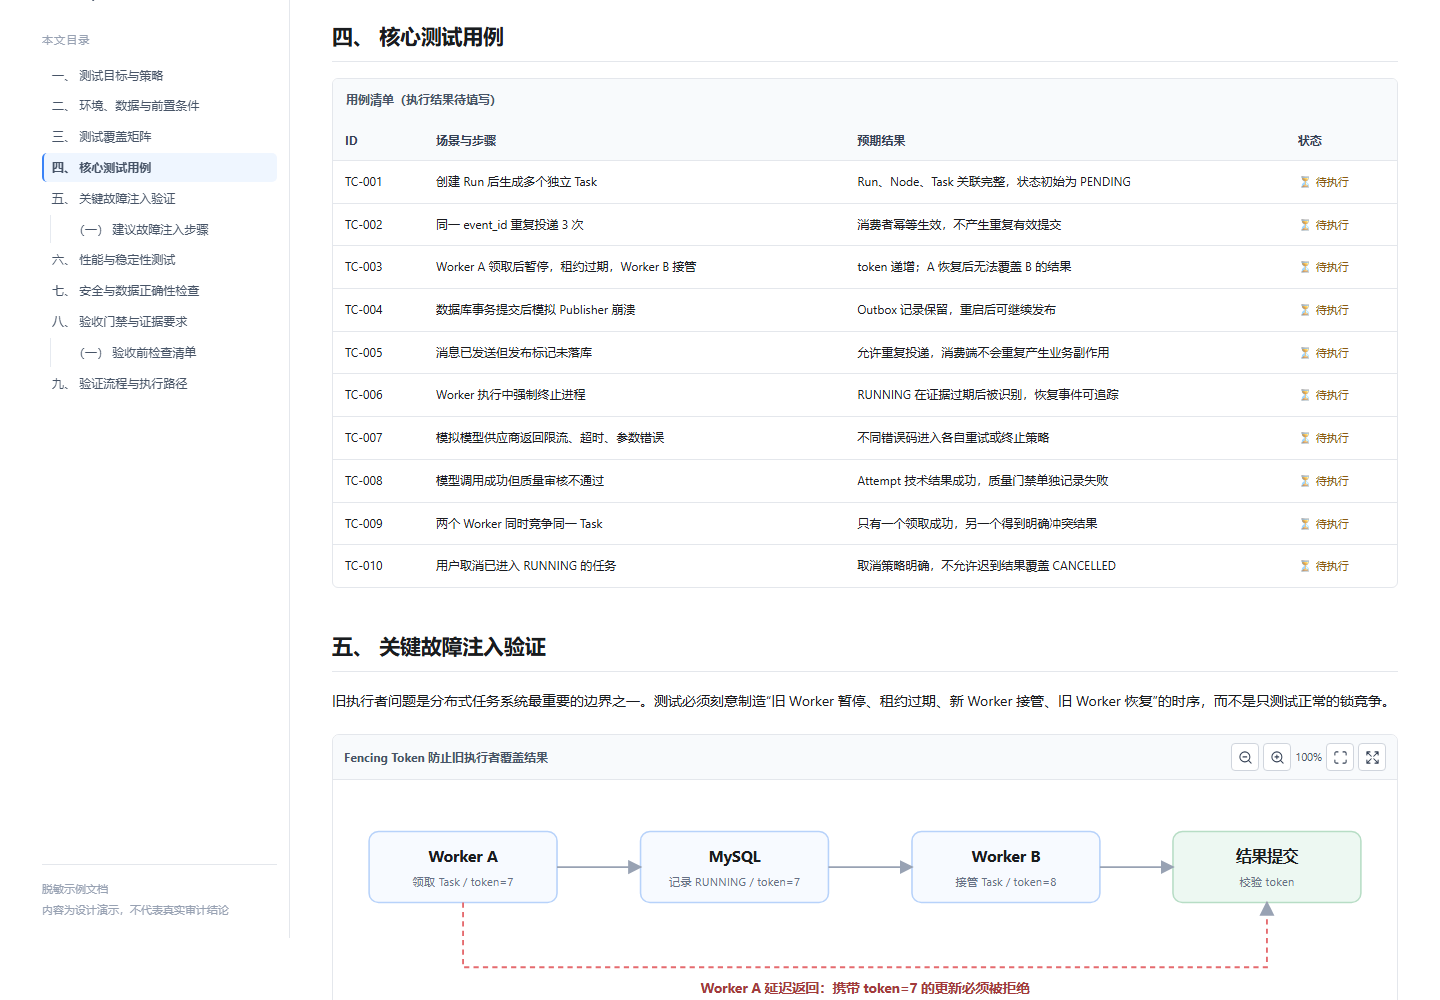
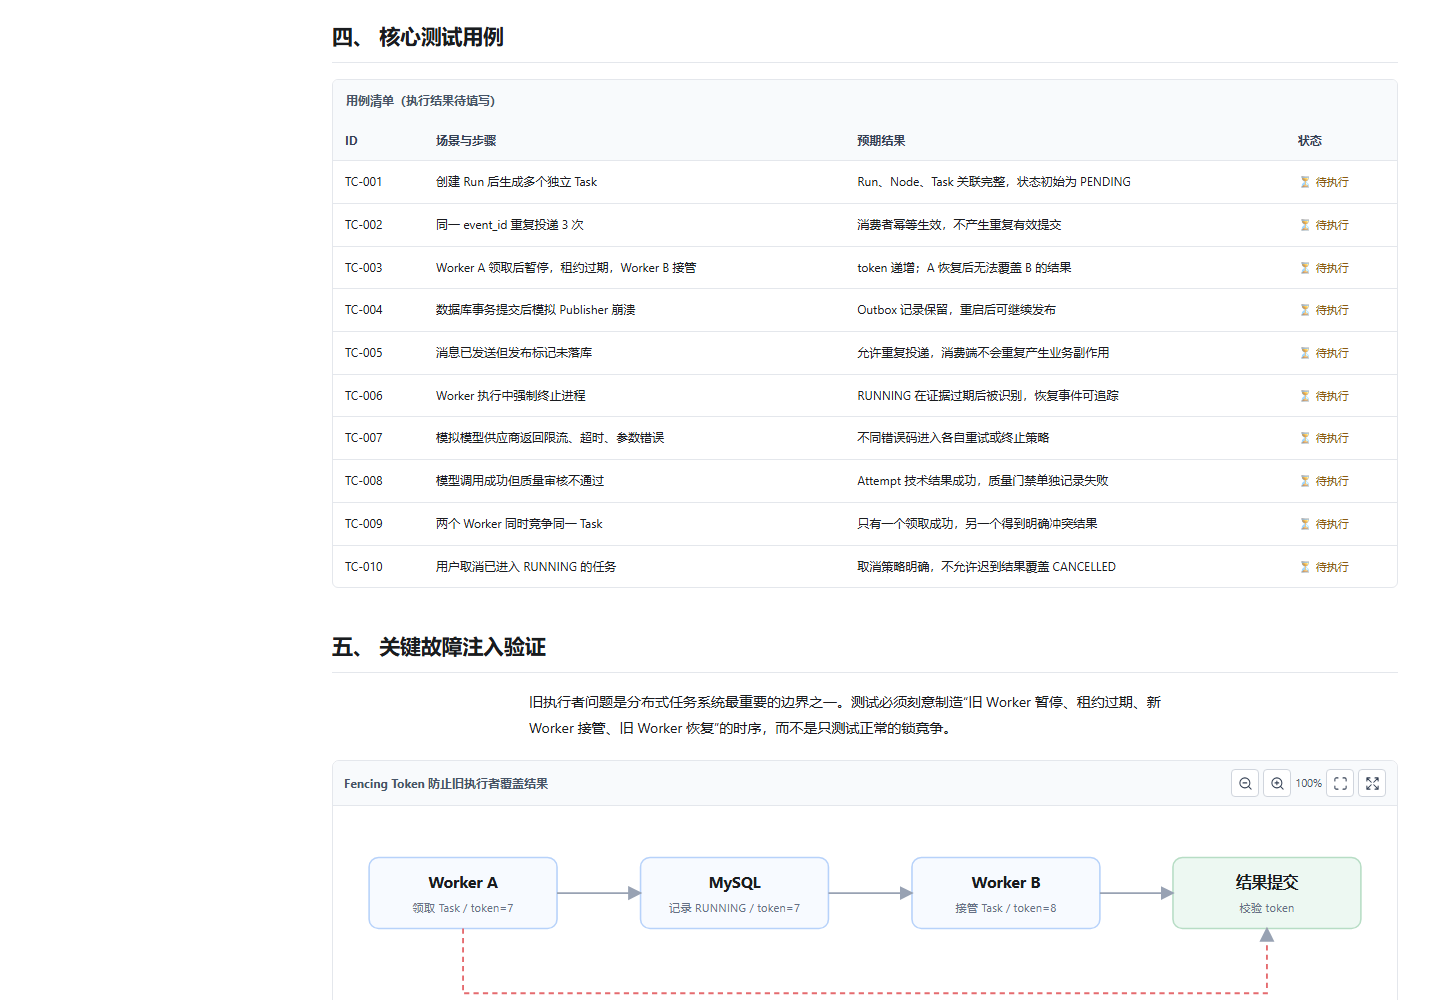
fix: 修复报告正文提前换行并优化全景图配色
报告排版,架构全景,Chrome回归

GEN-UI

diff --git a/assets/product-panorama-svg-theme.css b/assets/product-panorama-svg-theme.css
@@ -50,7 +50,7 @@
 }
 /* API entry: SVG node treatment with a narrow blue accent, never a solid banner. */
 .bp-entry,.genui-product-panorama .panorama-gateway{
- border:1px solid #b7d2fa;border-left:4px solid #3a83f7;border-radius:7px;
+ border:1px solid #b7d2fa;border-radius:7px;
  background:#eff6ff;color:#185abc;box-shadow:0 1px 3px rgba(27,52,83,.035);
  letter-spacing:0;font-size:15px;padding:12px 9px;
 }
@@ -66,7 +66,7 @@
  gap:9px;
 }
 .bp-label,.genui-product-panorama .panorama-band-label{
- background:#f2f6fc;border:1px solid #d7e3f2;border-left:3px solid #8ba8cc;
+ background:#f2f6fc;border:1px solid #d7e3f2;
  border-radius:6px;color:#344054;font-weight:730;
  font-size:13px;line-height:1.45;
 }
@@ -81,11 +81,11 @@
  text-align:left;margin:0 0 8px;
 }
 .bp-module,.genui-product-panorama .panorama-chip{
- background:#fff;border:1px solid #dce4ee;border-left:3px solid #b3cdea;
+ background:#fff;border:1px solid #dce4ee;
  border-radius:6px;color:#344054;box-shadow:0 1px 2px rgba(27,52,83,.025);
  font-weight:600;line-height:1.45;
 }
-.bp-standard .bp-module{background:#fff;border-color:#dce4ee;border-left-color:#b3cdea}
+.bp-standard .bp-module{background:#fff;border-color:#dce4ee}
 .bp-center,.genui-product-panorama .panorama-center-block{
  background:#f5f9ff;border:1px solid #cad9ed;border-radius:7px;
  padding:9px;
@@ -97,7 +97,7 @@
  color:#344054;font-size:13px;font-weight:700;
 }
 .bp-center-grid .bp-module,.genui-product-panorama .panorama-center-modules .panorama-chip{
- background:#fff;border:1px solid #dce4ee;border-left:3px solid #9dbce3;
+ background:#fff;border:1px solid #dce4ee;
  border-radius:5px;color:#344054;
 }
 .bp-center-grid .bp-chip{
@@ -114,10 +114,10 @@
  background:#fffaf2;border-color:#efdfc4;
 }
 .bp-layer[data-blueprint-layer="分析建模层"] .bp-label{
- background:#fff7eb;border-color:#ebd9bc;border-left-color:#d8a65b;
+ background:#fff7eb;border-color:#ebd9bc;
 }
 .bp-layer[data-blueprint-layer="中台能力层"] .bp-label{
- background:#f4f0ff;border-color:#ded5f5;border-left-color:#b4a0e3;
+ background:#f4f0ff;border-color:#ded5f5;
 }
 /* Source and storage should read like SVG data nodes, not glossy cartoons. */
 .bp-data-subtitle{background:#f2f6fc;color:#475467;border-radius:5px}
@@ -154,3 +154,47 @@
 /* The standalone product example previously used a purple document backdrop. */
 body:has(.bp-viewport){background:#fff;color:#344054}
 body:has(.bp-viewport) h1{color:#1a1c1f}
+
+/* Distinguishable, low-saturation color families across architecture layers.
+   Color fills the node surface; NO vertical accent stripe on module/label/entry. */
+.bp-layer,.genui-product-panorama .panorama-band{
+ --pan-layer-fill:#e7f1ff;--pan-layer-line:#b7d1f5;--pan-node-fill:#f7fbff;--pan-layer-ink:#234f80;
+}
+.bp-layer:nth-of-type(5n+2),.genui-product-panorama .panorama-band:nth-of-type(5n+2){
+ --pan-layer-fill:#e5f6ee;--pan-layer-line:#acd9bf;--pan-node-fill:#f5fcf8;--pan-layer-ink:#216248;
+}
+.bp-layer:nth-of-type(5n+3),.genui-product-panorama .panorama-band:nth-of-type(5n+3){
+ --pan-layer-fill:#eeeaff;--pan-layer-line:#d0c4ef;--pan-node-fill:#faf8ff;--pan-layer-ink:#584b91;
+}
+.bp-layer:nth-of-type(5n+4),.genui-product-panorama .panorama-band:nth-of-type(5n+4){
+ --pan-layer-fill:#fff2d9;--pan-layer-line:#ead0a0;--pan-node-fill:#fffbf0;--pan-layer-ink:#79581d;
+}
+.bp-layer:nth-of-type(5n),.genui-product-panorama .panorama-band:nth-of-type(5n){
+ --pan-layer-fill:#e4f5f8;--pan-layer-line:#b2dce6;--pan-node-fill:#f5fcfd;--pan-layer-ink:#245a65;
+}
+.bp-layer .bp-label,
+.bp-layer[data-blueprint-layer] .bp-label,
+.genui-product-panorama .panorama-band .panorama-band-label{
+ background:var(--pan-layer-fill);
+ border:1px solid var(--pan-layer-line);
+ color:var(--pan-layer-ink);
+}
+.bp-layer .bp-region,
+.bp-layer[data-blueprint-layer] .bp-region,
+.bp-layer .bp-center,
+.genui-product-panorama .panorama-band:nth-of-type(n) .panorama-band-content{
+ background:var(--pan-layer-fill);
+ border:1px solid var(--pan-layer-line);
+}
+.bp-layer .bp-module,
+.bp-layer .bp-standard .bp-module,
+.bp-layer .bp-center-grid .bp-module,
+.genui-product-panorama .panorama-band .panorama-chip{
+ background:var(--pan-node-fill);
+ border:1px solid var(--pan-layer-line);
+ color:var(--pan-layer-ink);
+}
+.bp-entry,.genui-product-panorama .panorama-gateway{
+ border:1px solid #b7d2fa;
+ background:#e8f2ff;
+}

diff --git a/demo/ui-refresh.css b/demo/ui-refresh.css
@@ -148,7 +148,9 @@ pre.code-block .code-copy{top:7px;right:8px;width:27px;height:27px;min-height:27
 
 /* Lightweight typography layer: prose stays readable when the rail collapses. */
 :root{--genui-prose-width:72ch;--genui-prose-leading:1.65;--genui-prose-gap:.85em;--genui-heading-gap:1.25em}
-#main :is(.overview-copy,.showcase-lead,.case-block>p,.case-block>ul,.case-block>ol,.before-after p,#panel-rules>p,.reading-prose,.prose,.article-body,.markdown-body){max-width:min(100%,var(--genui-prose-width));overflow-wrap:break-word}
+/* A reading cap is appropriate for standalone prose; case sections span the report grid. */
+#main :is(.overview-copy,.showcase-lead,.before-after p,#panel-rules>p,.reading-prose,.prose,.article-body,.markdown-body){max-width:min(100%,var(--genui-prose-width));overflow-wrap:break-word}
+#main .case-block>:is(p,ul,ol){max-width:100%;text-wrap:wrap;overflow-wrap:normal;word-break:normal;text-indent:0}
 #main :is(.overview-copy,.showcase-lead,.case-block>p,.case-block>ul,.case-block>ol,.before-after p,#panel-rules>p,.reading-prose,.prose,.article-body,.markdown-body) :is(p,li){line-height:var(--genui-prose-leading)}
 #main :is(.overview-copy p,.showcase-lead,.case-block>p,.before-after p,#panel-rules>p){line-height:var(--genui-prose-leading)}
 #main :is(.reading-prose,.prose,.article-body,.markdown-body) p+p{margin-block-start:var(--genui-prose-gap)}

diff --git a/evals/report-line-wrap-root-cause-2026-11-17.md b/evals/report-line-wrap-root-cause-2026-11-17.md
@@ -1,0 +1,44 @@
+# GEN-UI · report.html 句子提前换行根因与全景图配色复核
+
+日期：2026-11-17。状态：本机实际 Chrome 验证通过，合并前仍以 CI 为准。
+
+## 问题定位（不是 Markdown 转义）
+
+针对用户给出的三处原句：
+
+1. `#case-process > p`：上方的**内嵌 SVG 工程流程图**演示了可缩放、平移、全屏……
+2. `#case-review > p`：**证据推演：**假设锁租约为 30 秒而任务耗时 45 秒……
+3. `#case-guide > p`：这四份相互关联的**中文完整技术文档**对应不同阅读目的……
+
+在 `demo/report.html` 源码中，上述三句都是正常的 `<p>` + 内联 `<strong>`；原文件无人工 `<br>`、无 `&#x20;` / `&#x5047;` 实体、无反斜杠星号。导致提前断行的 CSS 根因在 `demo/ui-refresh.css` 的原规则：
+
+```css
+#main :is(...,.case-block>p,.case-block>ul,.case-block>ol,...) {
+  max-width: min(100%, var(--genui-prose-width));
+}
+```
+
+`--genui-prose-width:72ch` 把**整页报告的案例正文**误限制在相对狭窄的阅读列里；父章节和相邻表格仍有空余，因而出现用户观察到的提前断行。此次移除案例正文、列表的错误限宽，设为所属章节实际 `100%`，保留 `text-wrap:wrap`。标题仍采用自身完整章节宽度的 `text-wrap:balance`，与正文使用不同策略。
+
+## 精确段落 DOM 实测结果
+
+同一份报告，Chrome 实际检查三个原句，均无 `<br>` 和错误转义；文本段落和相应 H3 标题占用以下宽度：
+
+| 视口 / 导航 | 三段正文的宽度 | 对应章节宽度 | 标题宽度 | 结果 |
+| --- | ---: | ---: | ---: | --- |
+| 375px 展开 | 347px | 347px | 347px | 通过 |
+| 768px 展开 | 725px | 725px | 725px | 通过 |
+| 1440px 展开 | 1102.22px | 1102.22px | 1102.22px | 通过 |
+| 1440px 折叠 | 1079.22px | 1079.22px | 1079.22px | 通过 |
+
+验收入口：`node tests/chrome-report-smoke.mjs`。新增专门的三段文字 DOM + 宽度断言，防止未来仅凭无水平溢出而漏掉提前断行。原有标题孤字 Chrome 回归继续执行，不通过缩窄标题掩盖换行问题。
+
+## 产品架构全景图样式
+
+共享的 `assets/product-panorama-svg-theme.css` 已改为与现有 SVG 系列一致的点阵白底与五种可区分浅色层带：蓝、薄荷绿、淡紫、暖琥珀、浅青。标签、层容器和模块背景使用同一色系的不同明度；文本与边框保留足够对比。
+
+**每个入口、层标签、模块卡片都取消左侧加粗/强调边线，四边使用相同细边框。** 同步适用于六层产品全景、四份中文技术案例，以及三份新增的离线项目演示。Chrome 验收检查不同层颜色数量、左右边框宽度一致、移动端仅图内滚动。
+
+## 公开离线演示与发布边界
+
+`demo/unseen-panorama/index.html` 提供 Agent Lead、PlanShip、Distributed Systems Audit 三份**自带 CSS、无脚本/无 CDN** 的独立 HTML 与 9 张 375/768/1440px Chrome 实机截图。来源为公开冻结 Git 文件，由本会话整理结构，仅通过引文/结构与视觉回归；不是独立模型输出，不证明 Skill 实际激活或语义泛化性能。原始源文、原始配对提示、临时日志及本机路径未加入公共 Git 仓库。

diff --git a/references/product-architecture-panorama.md b/references/product-architecture-panorama.md
@@ -26,7 +26,7 @@
 
 ## 与 GEN-UI SVG 系列统一的视觉风格
 
-架构结构可以借鉴宽幅分层海报，**视觉样式必须沿用现有 SVG 系列**：白底/浅灰点阵画布、`#3A83F7` 蓝色强调、`#344054` 主要文字、浅灰细描边与小圆角；绿色/琥珀色仅作少量语义提示。禁止整块高饱和粉、绿、蓝铺底和粗重色边框，箭头/关系标签用清晰轻量的线条。可复用 [本地 SVG 主题 CSS](../assets/product-panorama-svg-theme.css)，但不能以样式统一为理由改变业务层次、复制示例模块或编造链路。
+架构结构可以借鉴宽幅分层海报，**视觉样式必须沿用现有 SVG 系列**：白底/浅灰点阵画布、`#3A83F7` 蓝色强调、`#344054` 深色文字和小圆角。不同能力层使用**清楚可区分的浅蓝、薄荷绿、浅紫、暖琥珀和浅青色整块背景**；层标签、内容容器与模块卡片使用同一色系的不同明度，同时保留文字名称，不靠颜色单独编码业务含义。每个标签、模块、入口都用**四边等粗的细边框**，**不允许左侧加粗或高亮竖线**。禁止大面积高饱和底色和粗边框，箭头只表示有来源的关系。复用 [本地 SVG 主题 CSS](../assets/product-panorama-svg-theme.css)，但不能以配色为理由改变业务层次或编造链路。
 
 ## 最小可复用示例
 
